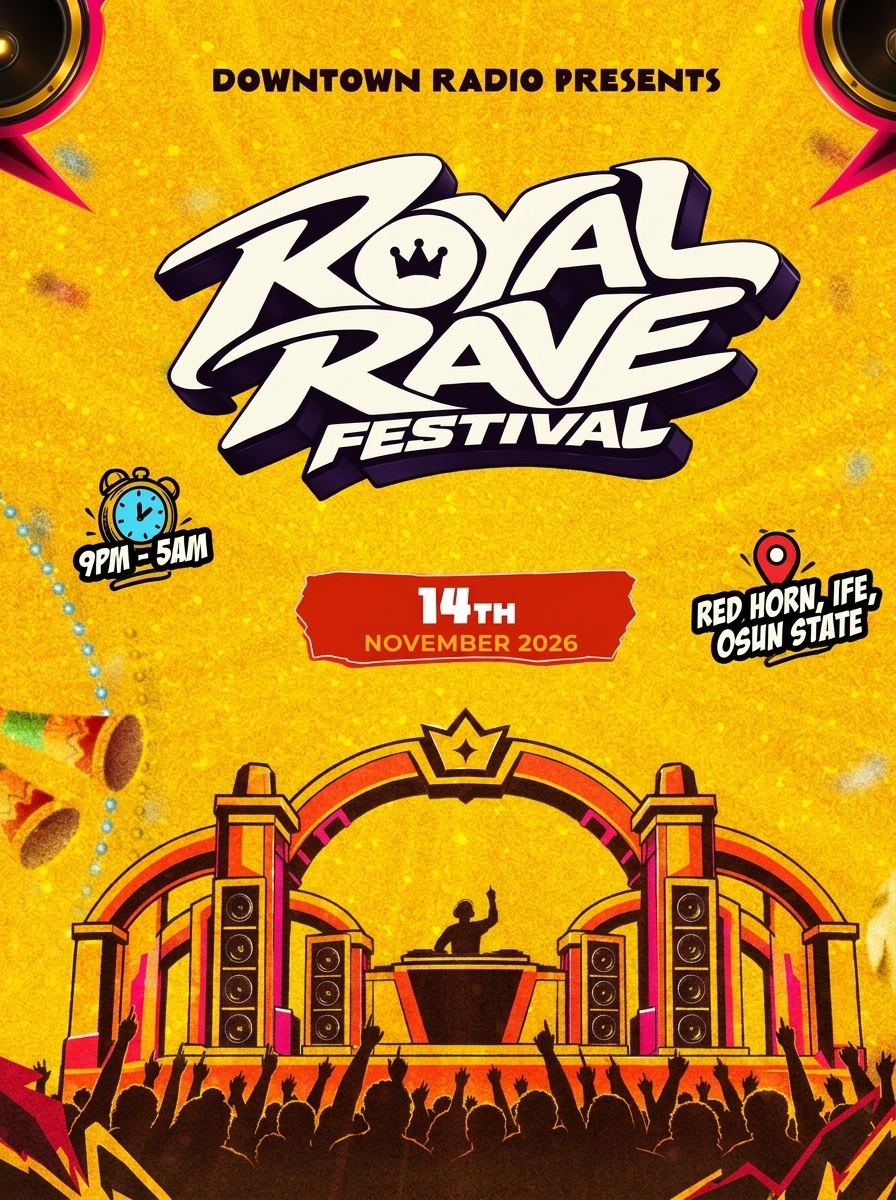
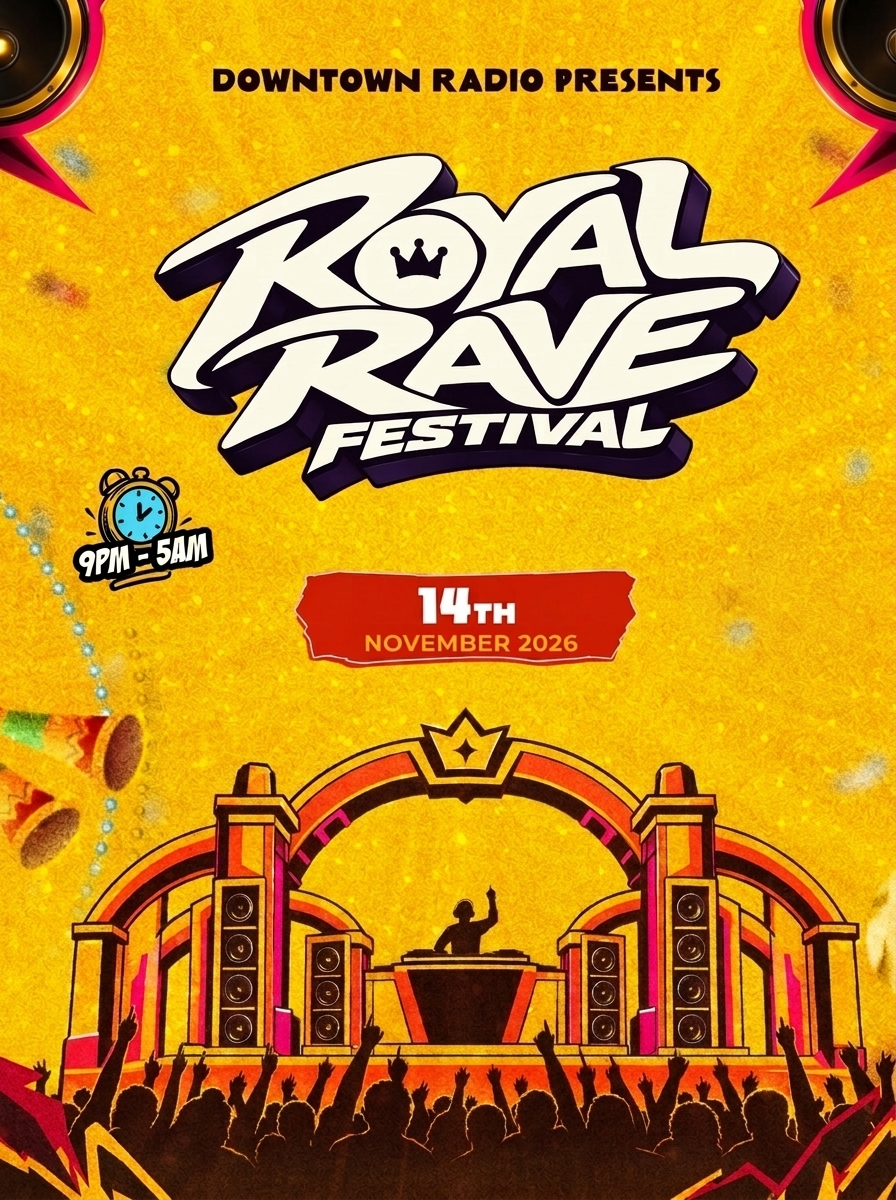
Fix mobile cover art perspective blowout and strip location badge from event flyer image

diff --git a/components/CuratedPlaylists.tsx b/components/CuratedPlaylists.tsx
@@ -27,7 +27,7 @@ export default function CuratedPlaylists() {
             Curated Playlists
           </h2>
           <p className="text-sm text-zinc-400">
-            Hand-picked selections highlighting the soundscapes of Ile-Ife, Lagos Mainland, and the indie underground.
+            Hand-picked selections highlighting the soundscapes of the African indie underground and premier festival anthems.
           </p>
         </div>
 
@@ -61,7 +61,7 @@ export default function CuratedPlaylists() {
                 <div className="absolute inset-0 bg-black/40 opacity-0 group-hover:opacity-100 transition-opacity flex items-center justify-center">
                   <button
                     onClick={() => handlePlayPlaylist(playlist.trackIds)}
-                    className="w-13 h-13 rounded-full bg-gold-gradient text-charcoal-950 flex items-center justify-center shadow-gold-glow transform translate-y-2 group-hover:translate-y-0 transition-all duration-300 active:scale-95"
+                    className="w-12 h-12 rounded-full bg-gold-gradient text-charcoal-950 flex items-center justify-center shadow-gold-glow transform translate-y-2 group-hover:translate-y-0 transition-all duration-300 active:scale-95"
                     aria-label={`Play ${playlist.title}`}
                   >
                     <Play className="w-6 h-6 fill-charcoal-950 ml-0.5" />

diff --git a/components/EventVideoReel.tsx b/components/EventVideoReel.tsx
@@ -176,7 +176,7 @@ export default function EventVideoReel() {
                 onClick={togglePlay}
                 className="absolute inset-0 bg-black/45 backdrop-blur-[2px] flex items-center justify-center cursor-pointer transition-all"
               >
-                <div className="w-18 h-18 sm:w-20 sm:h-20 rounded-full bg-gold-gradient text-charcoal-950 flex items-center justify-center shadow-gold-glow-lg transform hover:scale-110 active:scale-95 transition-all">
+                <div className="w-16 h-16 sm:w-20 sm:h-20 rounded-full bg-gold-gradient text-charcoal-950 flex items-center justify-center shadow-gold-glow-lg transform hover:scale-110 active:scale-95 transition-all">
                   <Play className="w-8 h-8 fill-charcoal-950 ml-1" />
                 </div>
               </div>

diff --git a/components/DKVisionarySection.tsx b/components/DKVisionarySection.tsx
@@ -251,7 +251,7 @@ export default function DKVisionarySection() {
               {/* Cover Art & EP Overview Grid */}
               <div className="grid grid-cols-1 sm:grid-cols-12 gap-5 items-center mb-5">
                 {/* Official Album Art */}
-                <div className="sm:col-span-5 relative aspect-square rounded-2xl overflow-hidden border-2 border-gold-500/40 shadow-xl group/cover">
+                <div className="sm:col-span-5 relative w-full max-w-xs sm:max-w-none mx-auto sm:mx-0 aspect-square rounded-2xl overflow-hidden border-2 border-gold-500/40 shadow-xl group/cover bg-charcoal-900">
                   <img
                     src="/images/atwn/atwn-cover.jpg"
                     alt="ATWN (After This What Next) Official Cover Art"

diff --git a/components/ArtistDashboard.tsx b/components/ArtistDashboard.tsx
@@ -81,7 +81,7 @@ export default function ArtistDashboard() {
               <img
                 src={currentArtist.avatarUrl}
                 alt={currentArtist.stageName}
-                className="w-18 h-18 sm:w-24 sm:h-24 rounded-2xl object-cover border-2 border-gold-500/40 shadow-gold-glow"
+                className="w-20 h-20 sm:w-24 sm:h-24 aspect-square rounded-2xl object-cover border-2 border-gold-500/40 shadow-gold-glow"
               />
               {currentArtist.isPro && (
                 <span className="absolute -bottom-2 -right-2 p-1.5 rounded-xl bg-gold-gradient text-charcoal-950 font-black shadow-gold-glow">

diff --git a/components/TrackFeed.tsx b/components/TrackFeed.tsx
@@ -101,7 +101,7 @@ export default function TrackFeed() {
               <div className="flex items-start space-x-3.5 sm:space-x-4 mb-4">
                 
                 {/* Cover art with Play button */}
-                <div className="relative w-18 h-18 sm:w-20 sm:h-20 rounded-xl overflow-hidden flex-shrink-0 bg-charcoal-800 border border-white/10">
+                <div className="relative w-20 h-20 sm:w-24 sm:h-24 aspect-square rounded-2xl overflow-hidden flex-shrink-0 bg-charcoal-800 border border-white/10 shadow-md">
                   <img
                     src={track.coverUrl}
                     alt={track.title}

diff --git a/components/TicketBookingSection.tsx b/components/TicketBookingSection.tsx
@@ -171,7 +171,7 @@ export default function TicketBookingSection() {
           <div className="rounded-3xl overflow-hidden border-2 border-gold-500/50 shadow-gold-glow-lg bg-charcoal-900 relative group">
             
             {/* The Official Poster Flyer */}
-            <div className="relative aspect-[4/5] w-full overflow-hidden bg-charcoal-950">
+            <div className="relative aspect-[3/4] w-full overflow-hidden bg-charcoal-950">
               <img
                 src="/images/royal-rave-poster.jpg"
                 alt="Royal Rave Festival Official Flyer — Status: To Be Announced (TBA)"

diff --git a/components/EventsPitching.tsx b/components/EventsPitching.tsx
@@ -79,7 +79,7 @@ export default function EventsPitching() {
                 <img
                   src={event.bannerUrl}
                   alt={event.title}
-                  className="w-full h-full object-cover transition-transform duration-700 group-hover:scale-105"
+                  className="w-full h-full object-cover object-top transition-transform duration-700 group-hover:scale-105"
                 />
                 <div className="absolute inset-0 bg-gradient-to-t from-charcoal-900 via-charcoal-900/40 to-transparent" />
 
